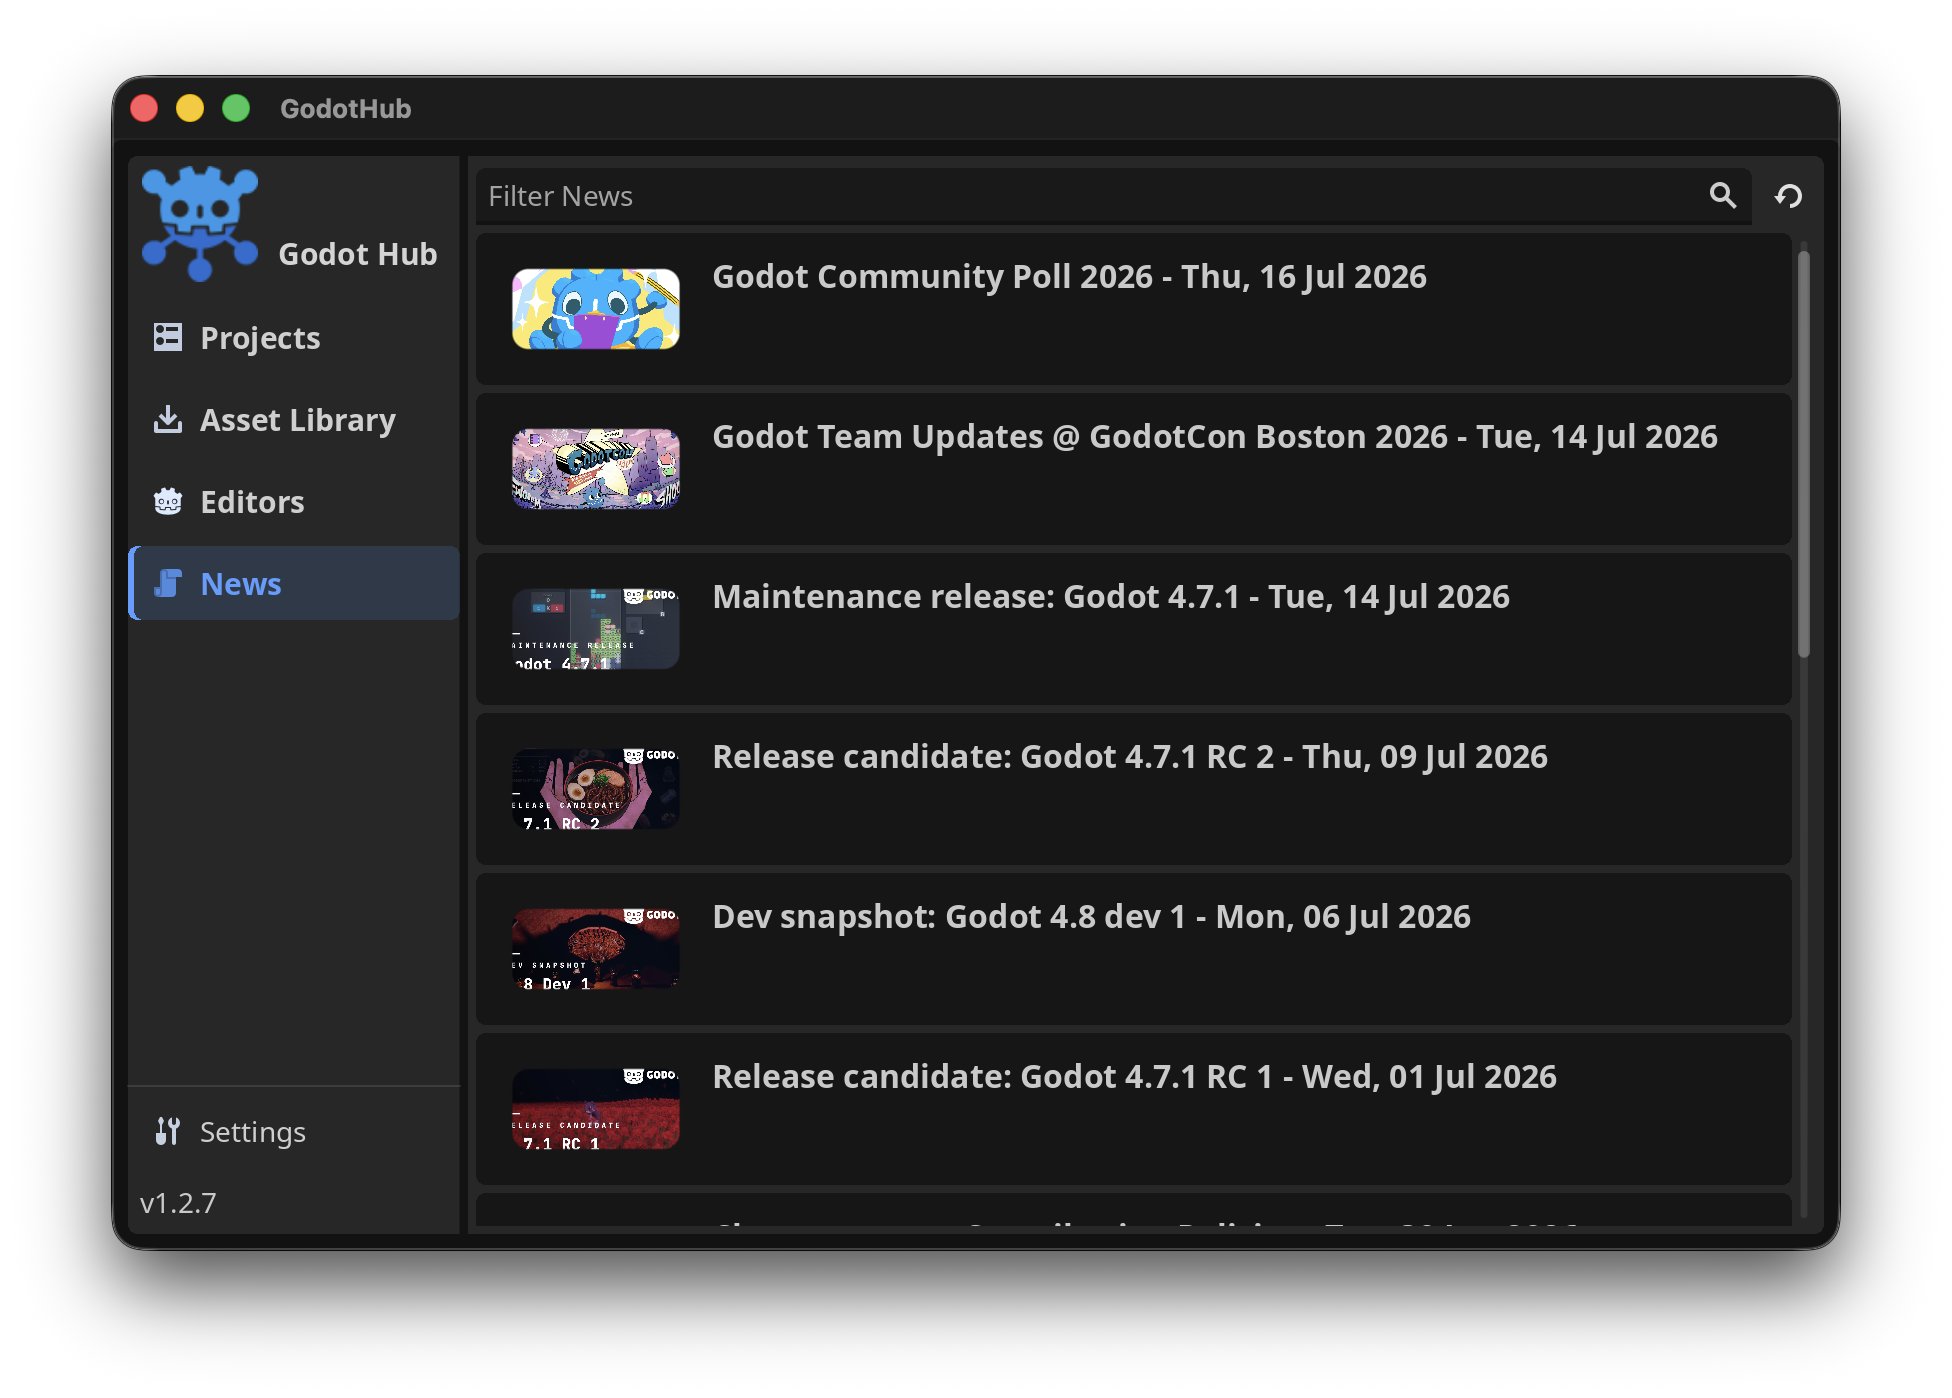
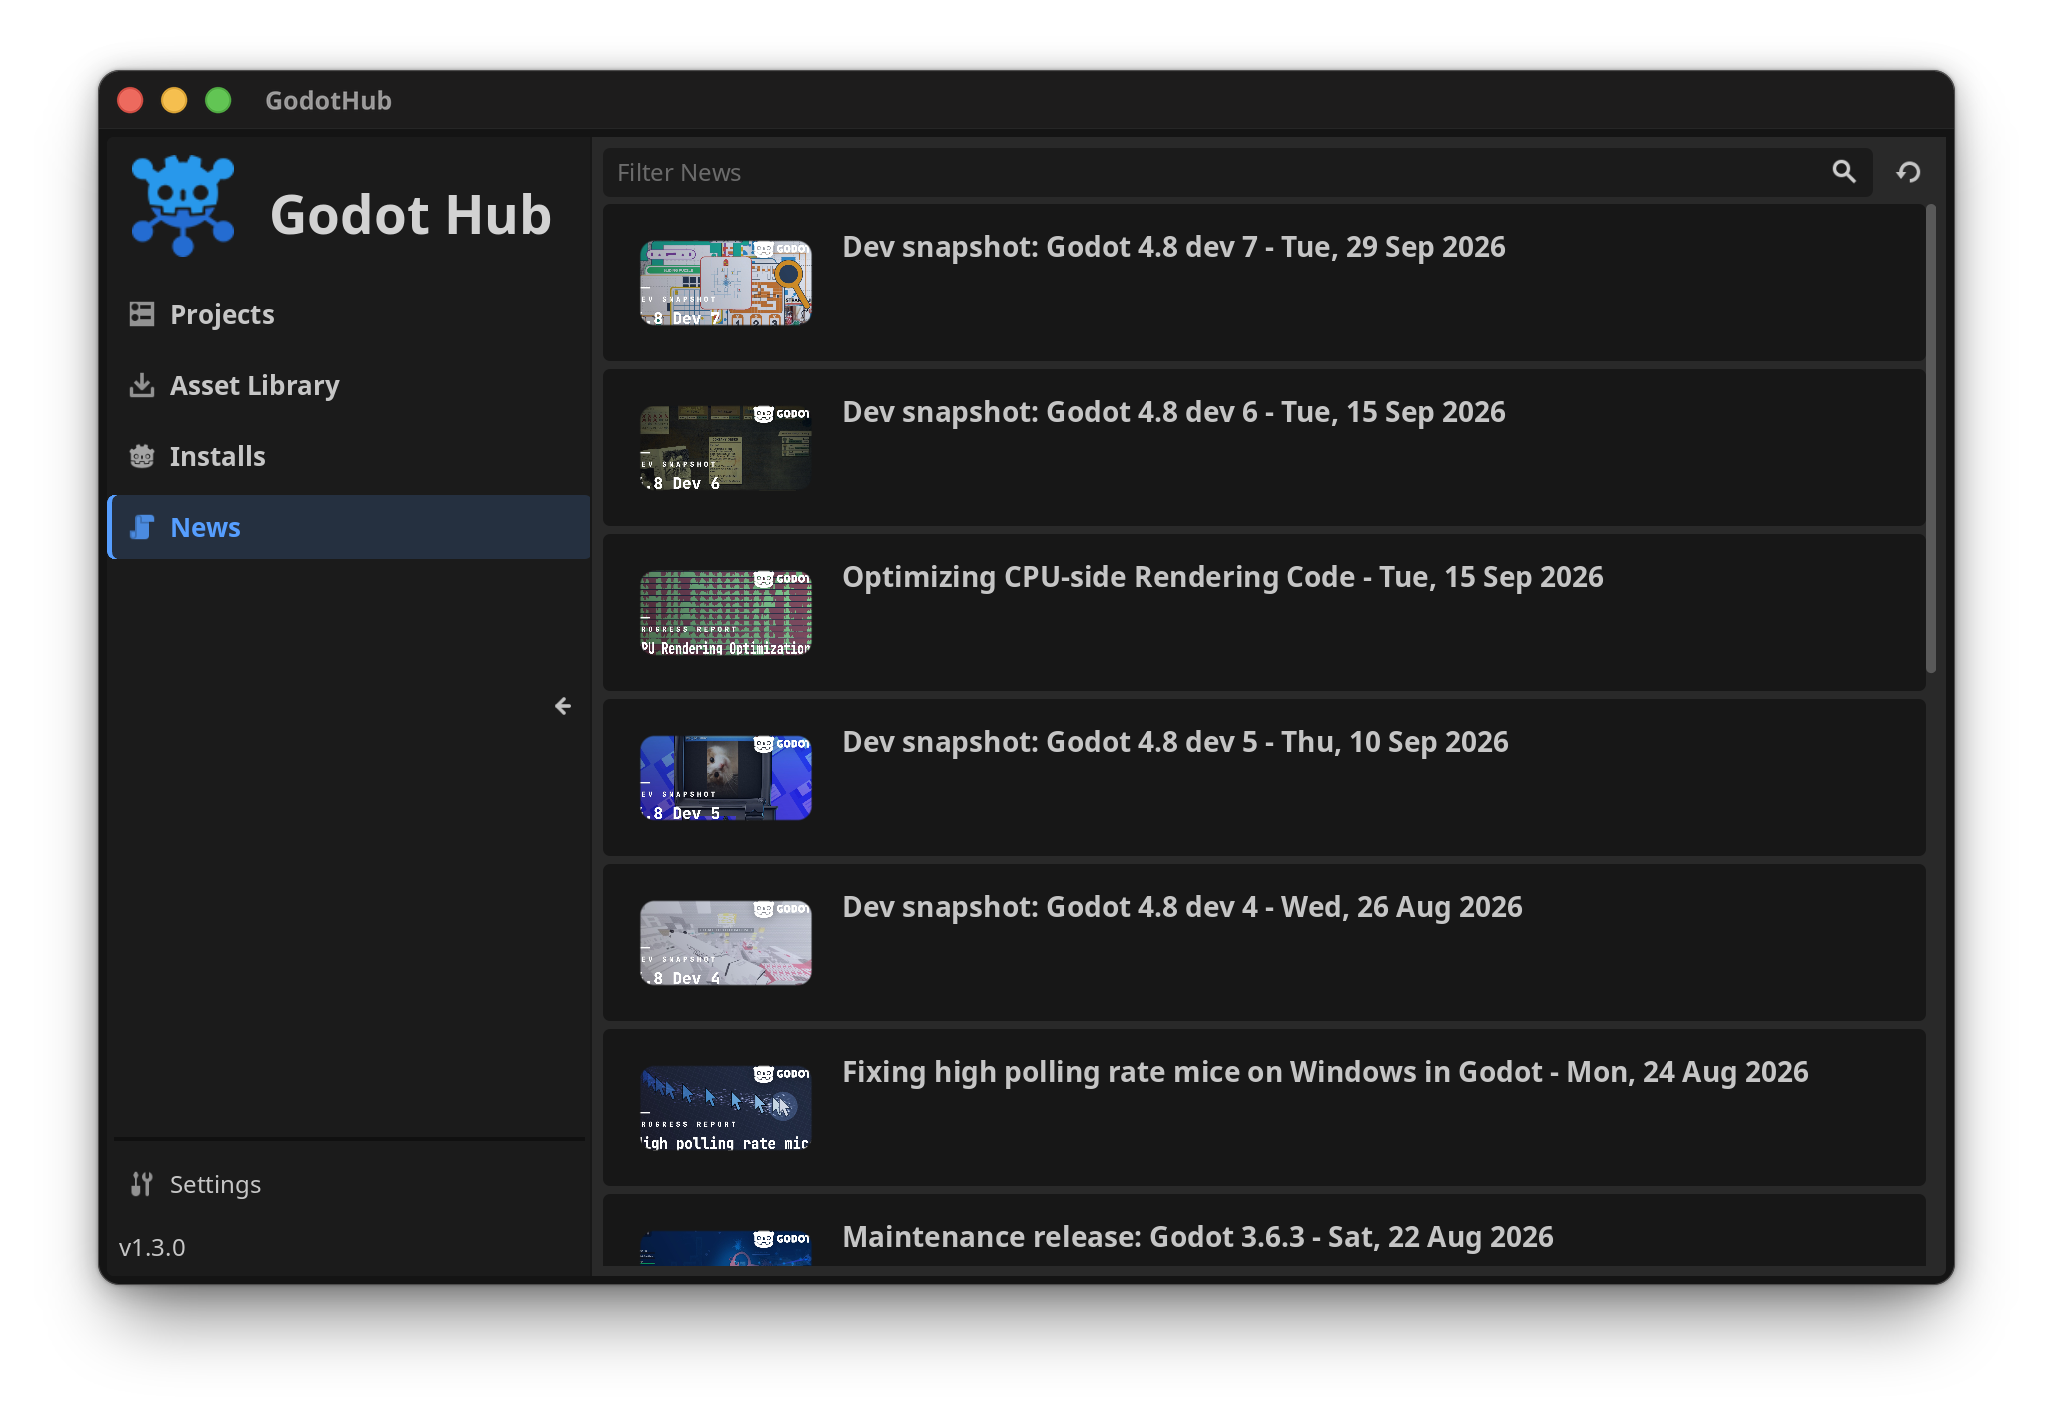
Update README screenshots for v1.3.0
New captures of the Projects, Installs and News pages, plus the Install
Editor window and its export templates step.

Changed region(s): [[0.0312, 0.0308, 0.9688, 0.9227], [0.25, 0.7382, 0.875, 0.8305]]

diff --git a/README.md b/README.md
@@ -81,6 +81,12 @@ Download the latest stable Godot release in one click, keep older or preview ver
 
 ![Godot Hub editor manager](.github/assets/screenshot2.png)
 
+Browse official releases, pre-releases, and the archive, pick the Standard or .NET build, and download only the export templates you need.
+
+![Godot Hub editor installer](.github/assets/screenshot4.png)
+
+![Godot Hub export template picker](.github/assets/screenshot5.png)
+
 ### Find every project quickly
 
 Create, clone, import, scan, search, and sort projects from one screen. You can also drop a `project.godot` file or project folder onto Godot Hub to import it.
